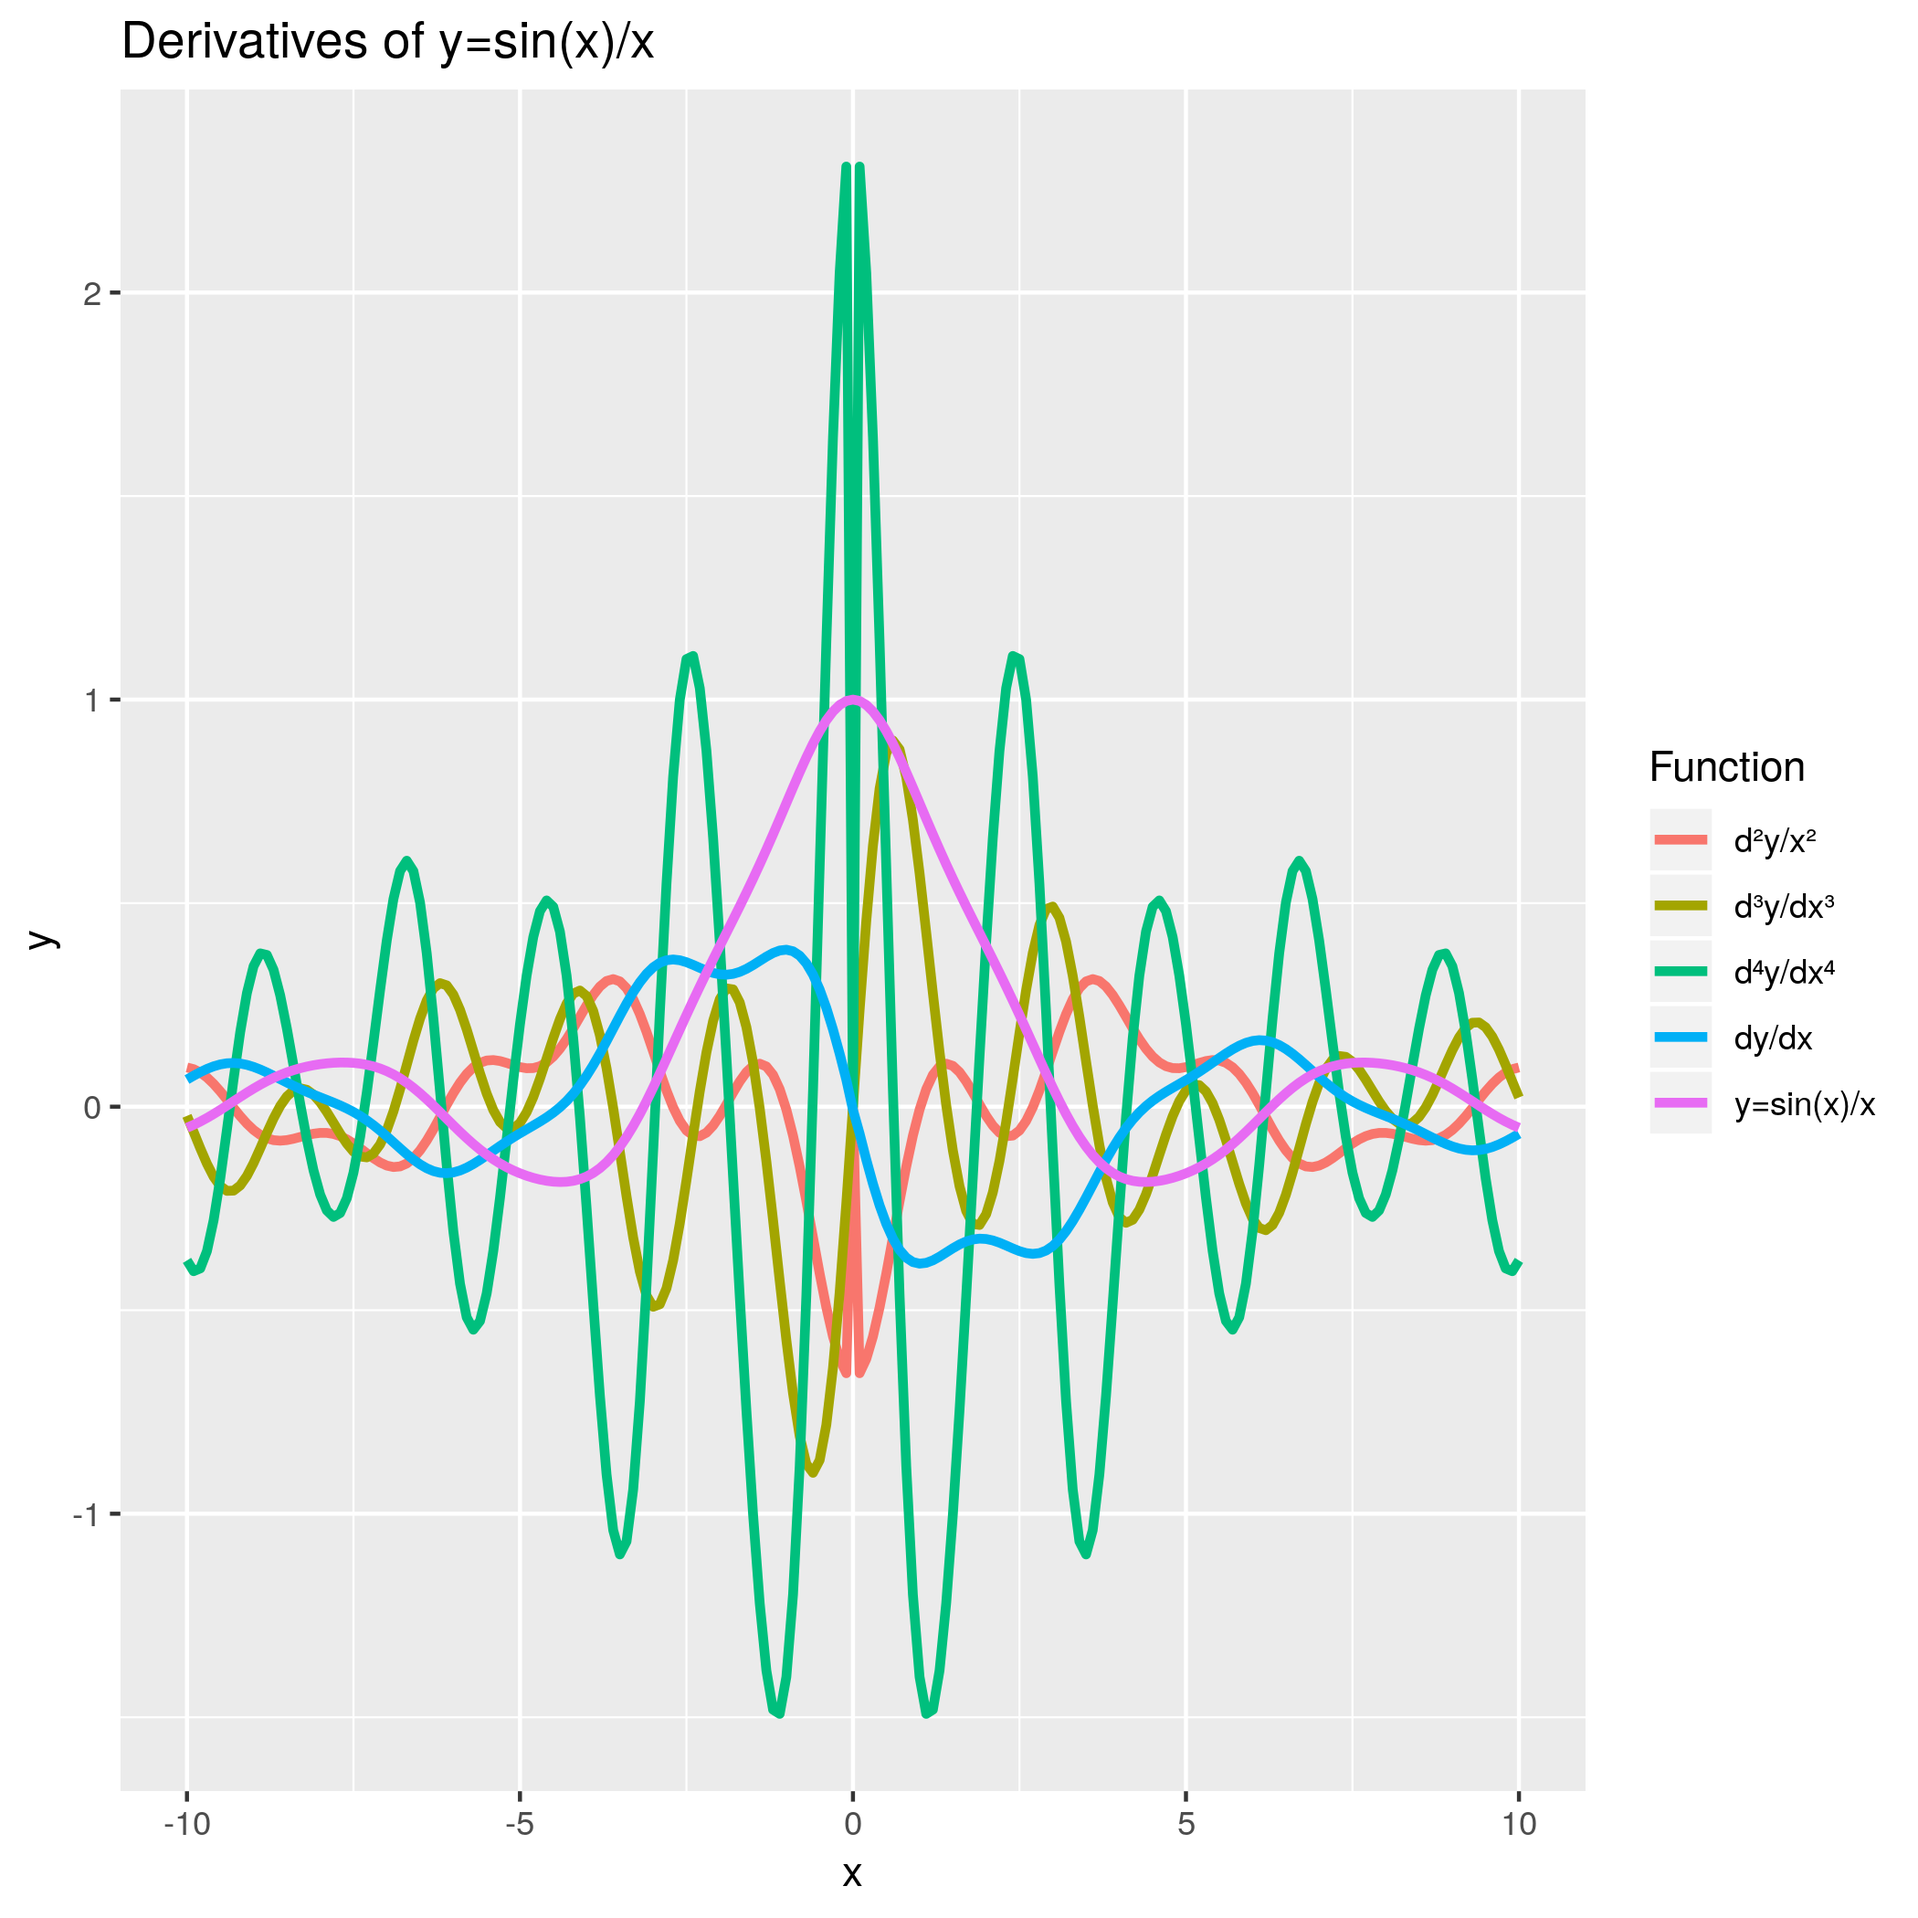
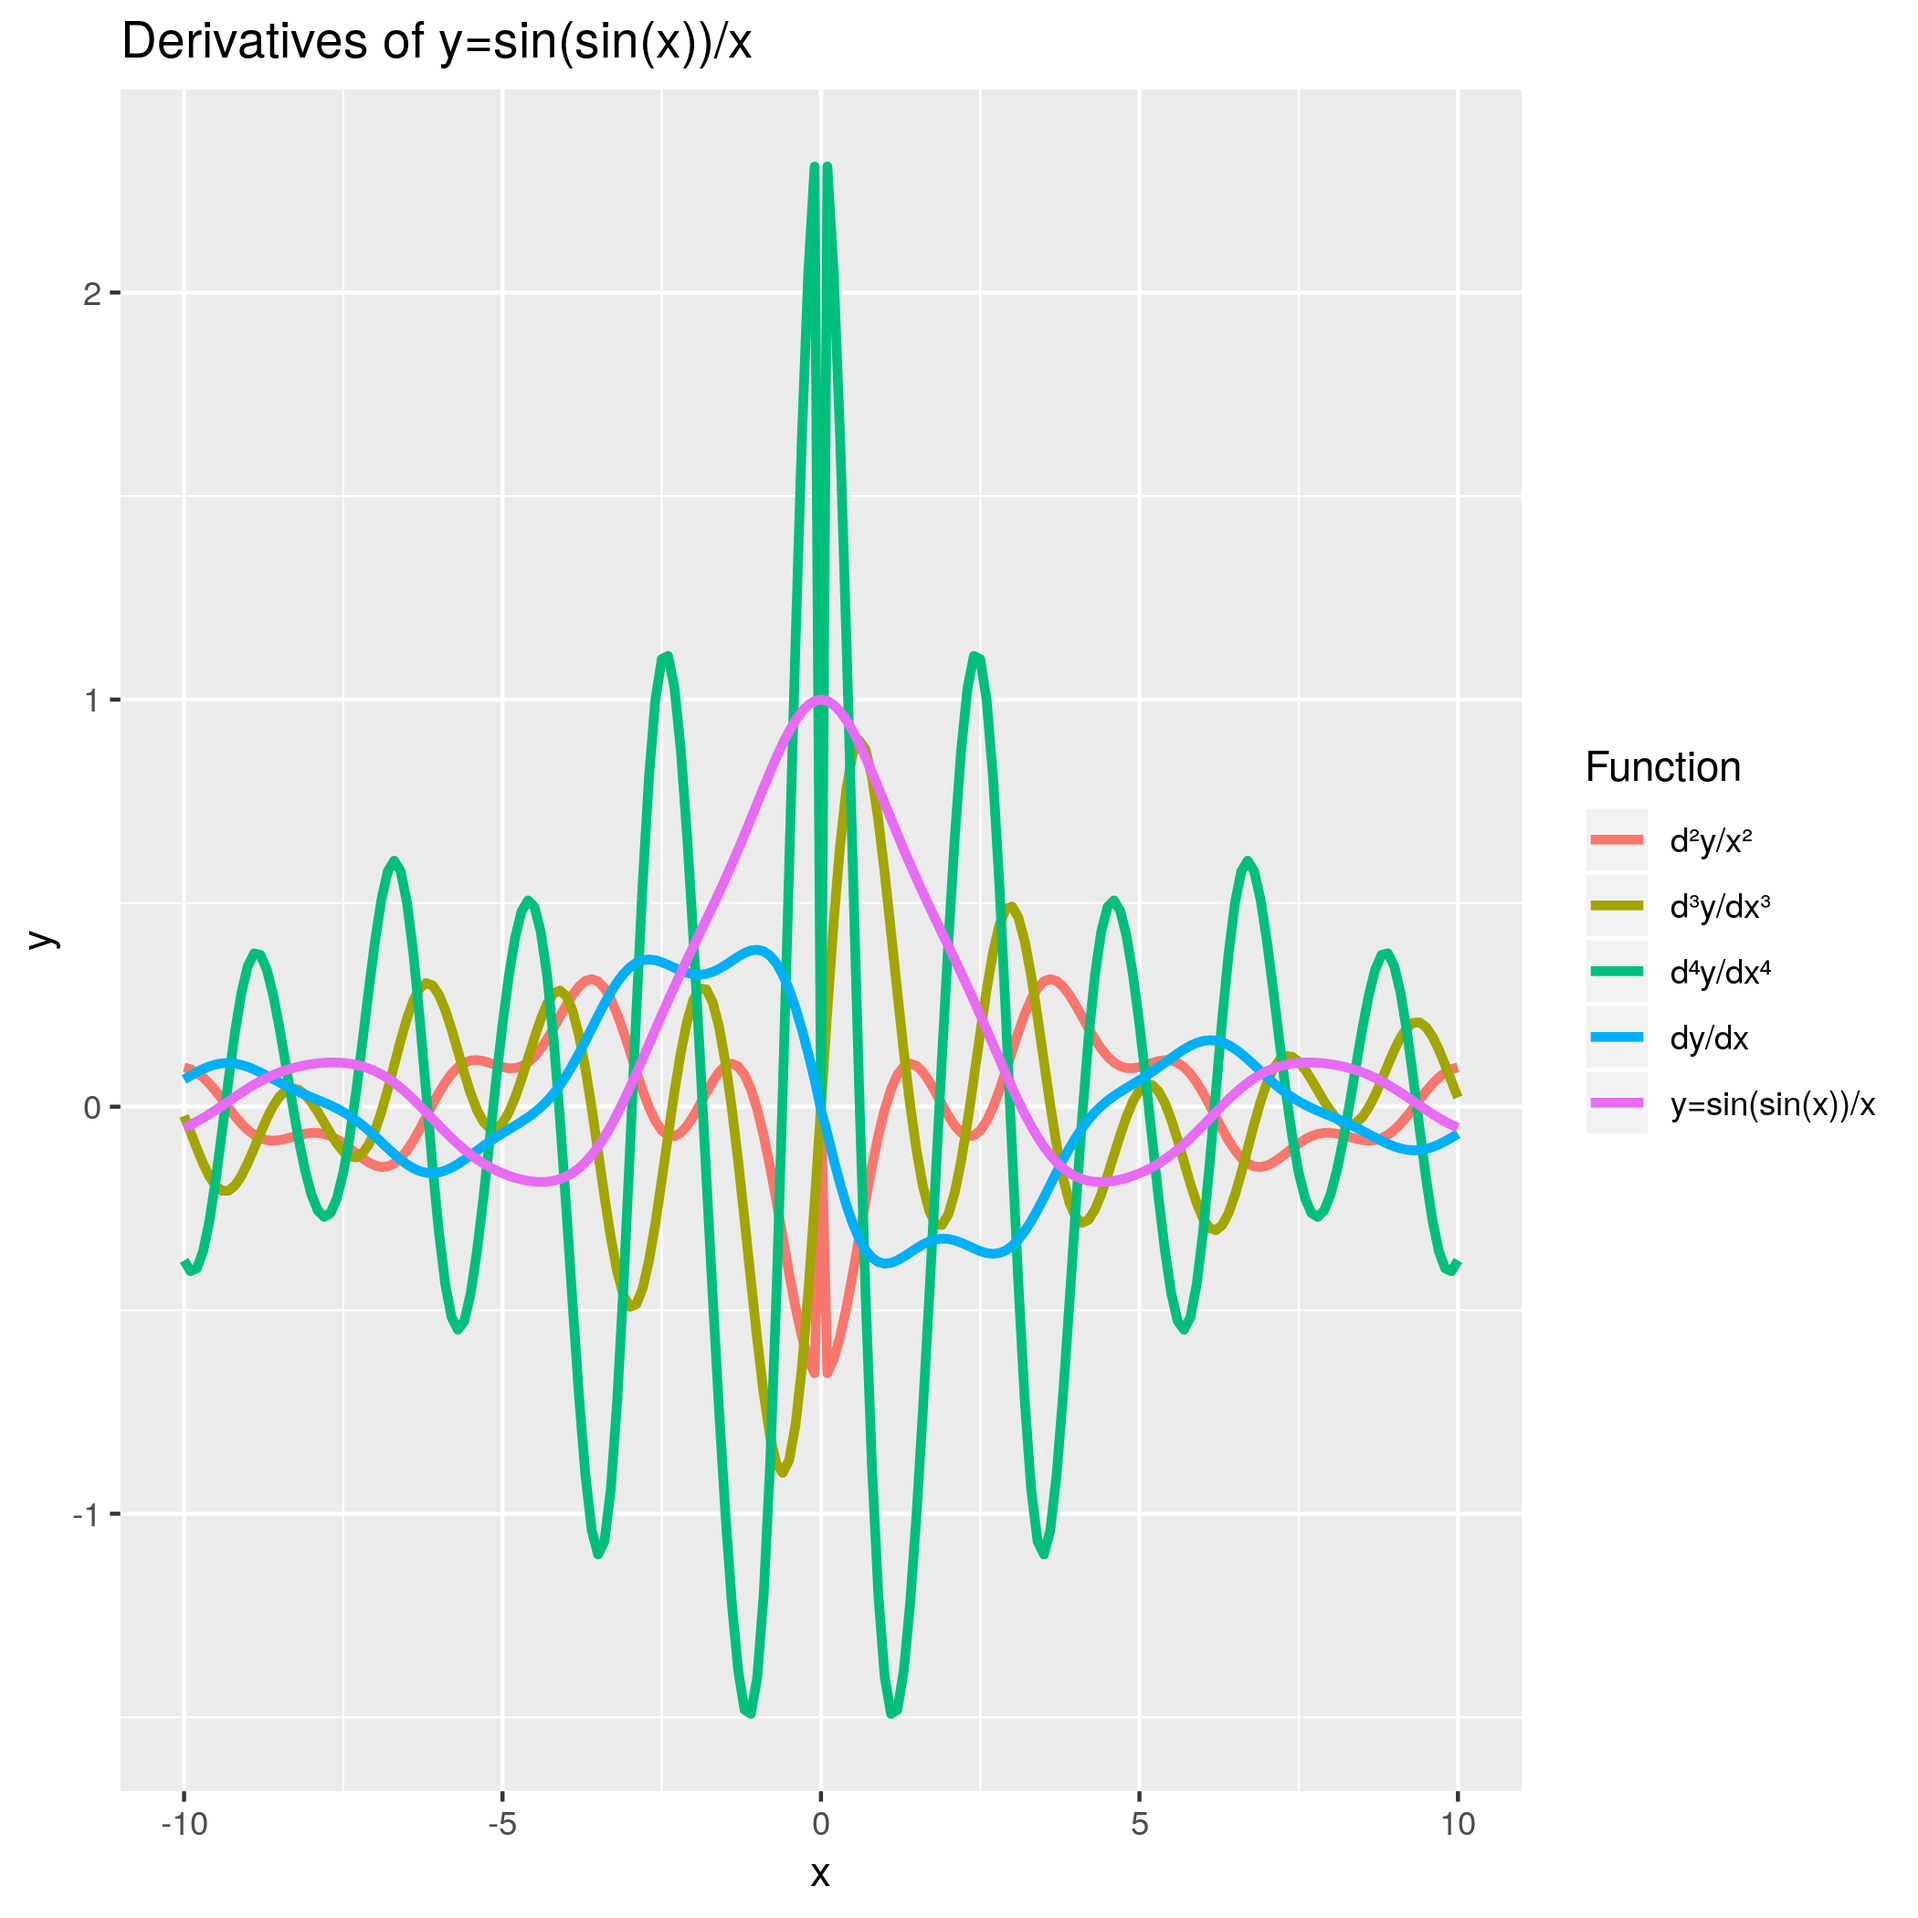
fix title

diff --git a/src/main/kotlin/edu/umontreal/kotlingrad/math/samples/TestPlot.kt b/src/main/kotlin/edu/umontreal/kotlingrad/math/samples/TestPlot.kt
@@ -29,7 +29,7 @@ fun main(args: Array<String>) {
     dataFrameOf("x", "y", "Function")(ys)
         .plot(x = "x", y = "y", color = "Function")
         .geomLine(size = 1.2)
-        .title("Derivatives of y=sin(x)/x")
+        .title("Derivatives of y=sin(sin(x))/x")
         .save(File("src/main/resources/plot.png"))
   }
 }
